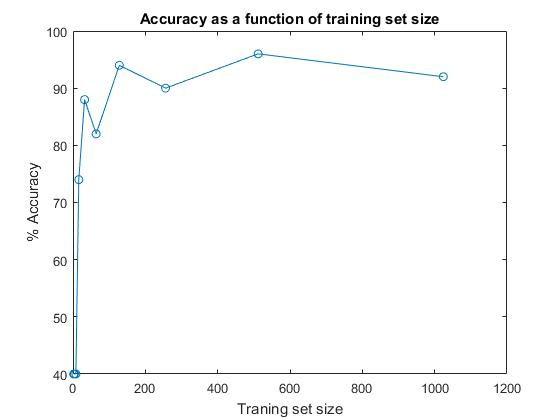
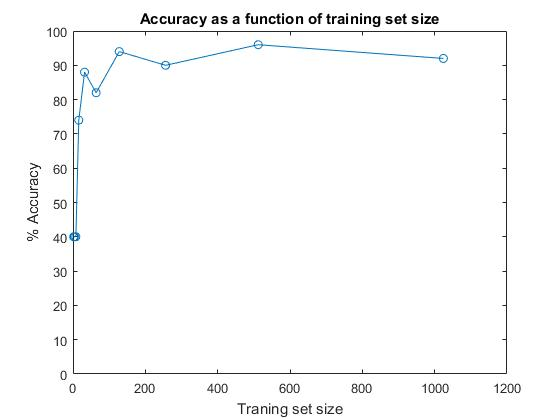
new g

Changed region(s): [[0.0911, 0.0929, 0.8196, 0.9286]]

diff --git a/q2c.m b/q2c.m
@@ -38,7 +38,7 @@ plot(size_vec, acc_vec, '-o')
 title('Accuracy as a function of training set size');
 ylabel('% Accuracy');
 xlabel('Traning set size');
-
+ylim([0 100])
 
 
 %% FUNCTION TO EVALUATE ANY UNSEEN DATA, x
